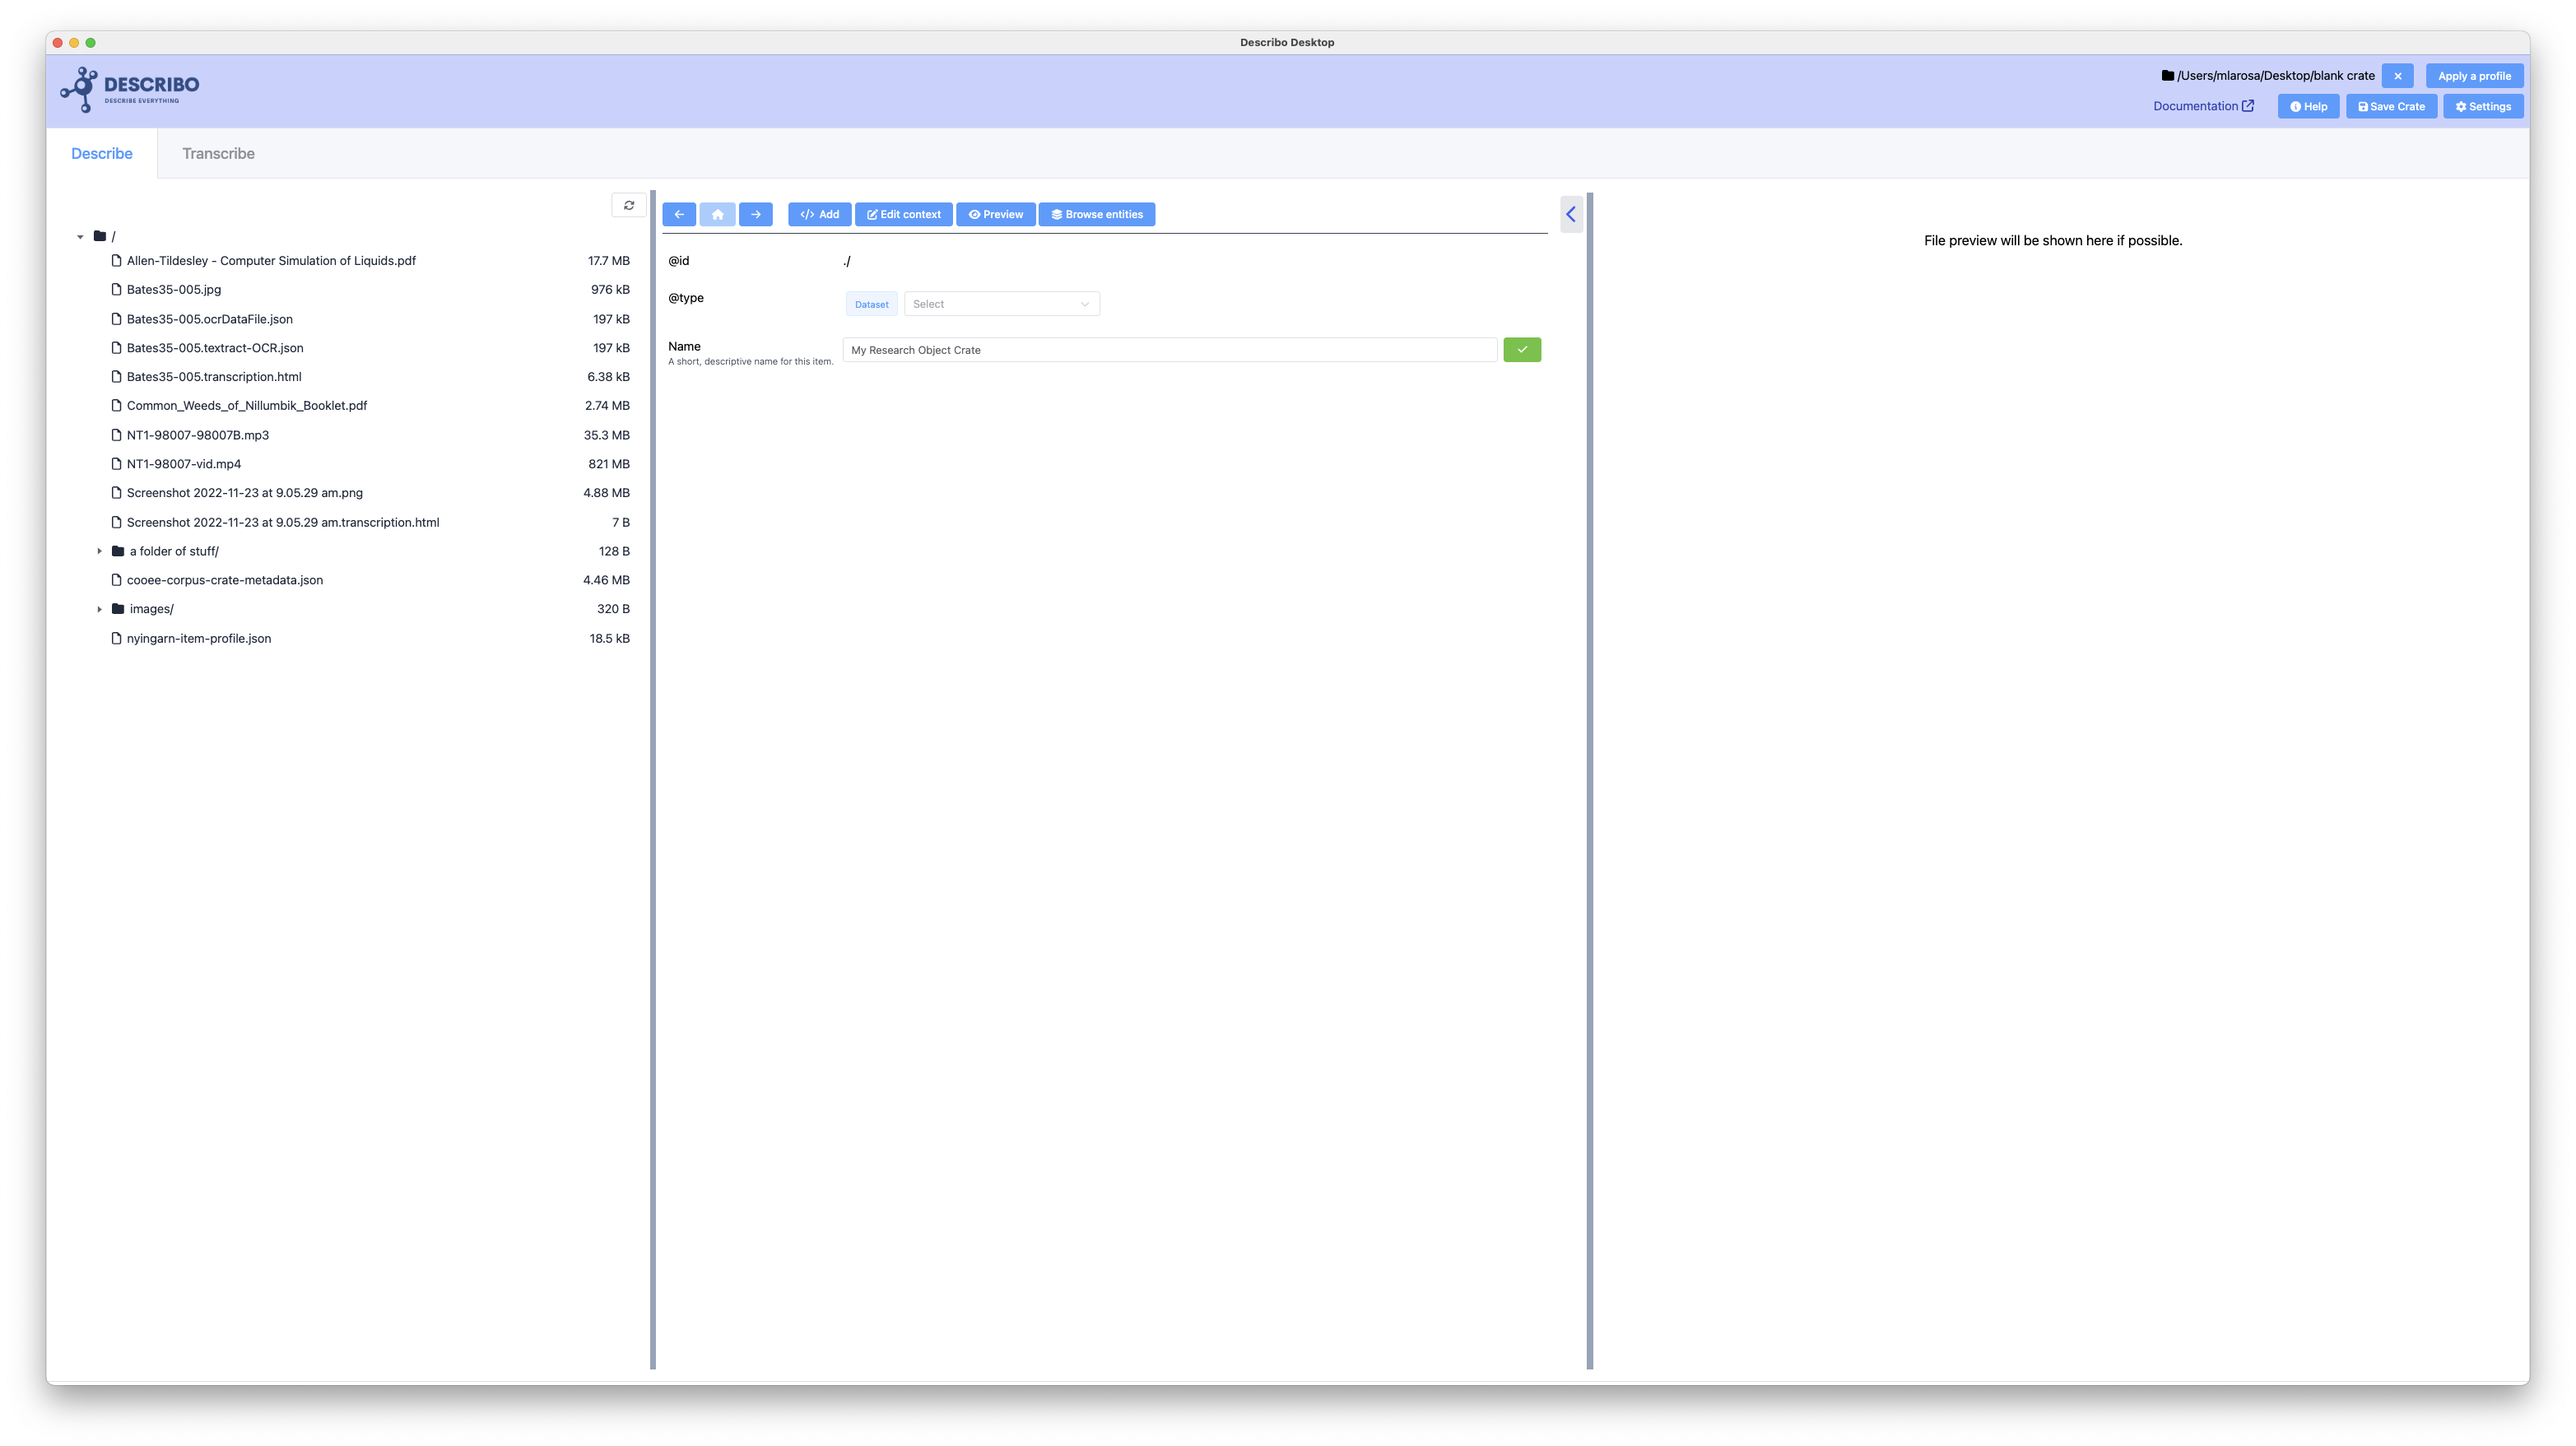
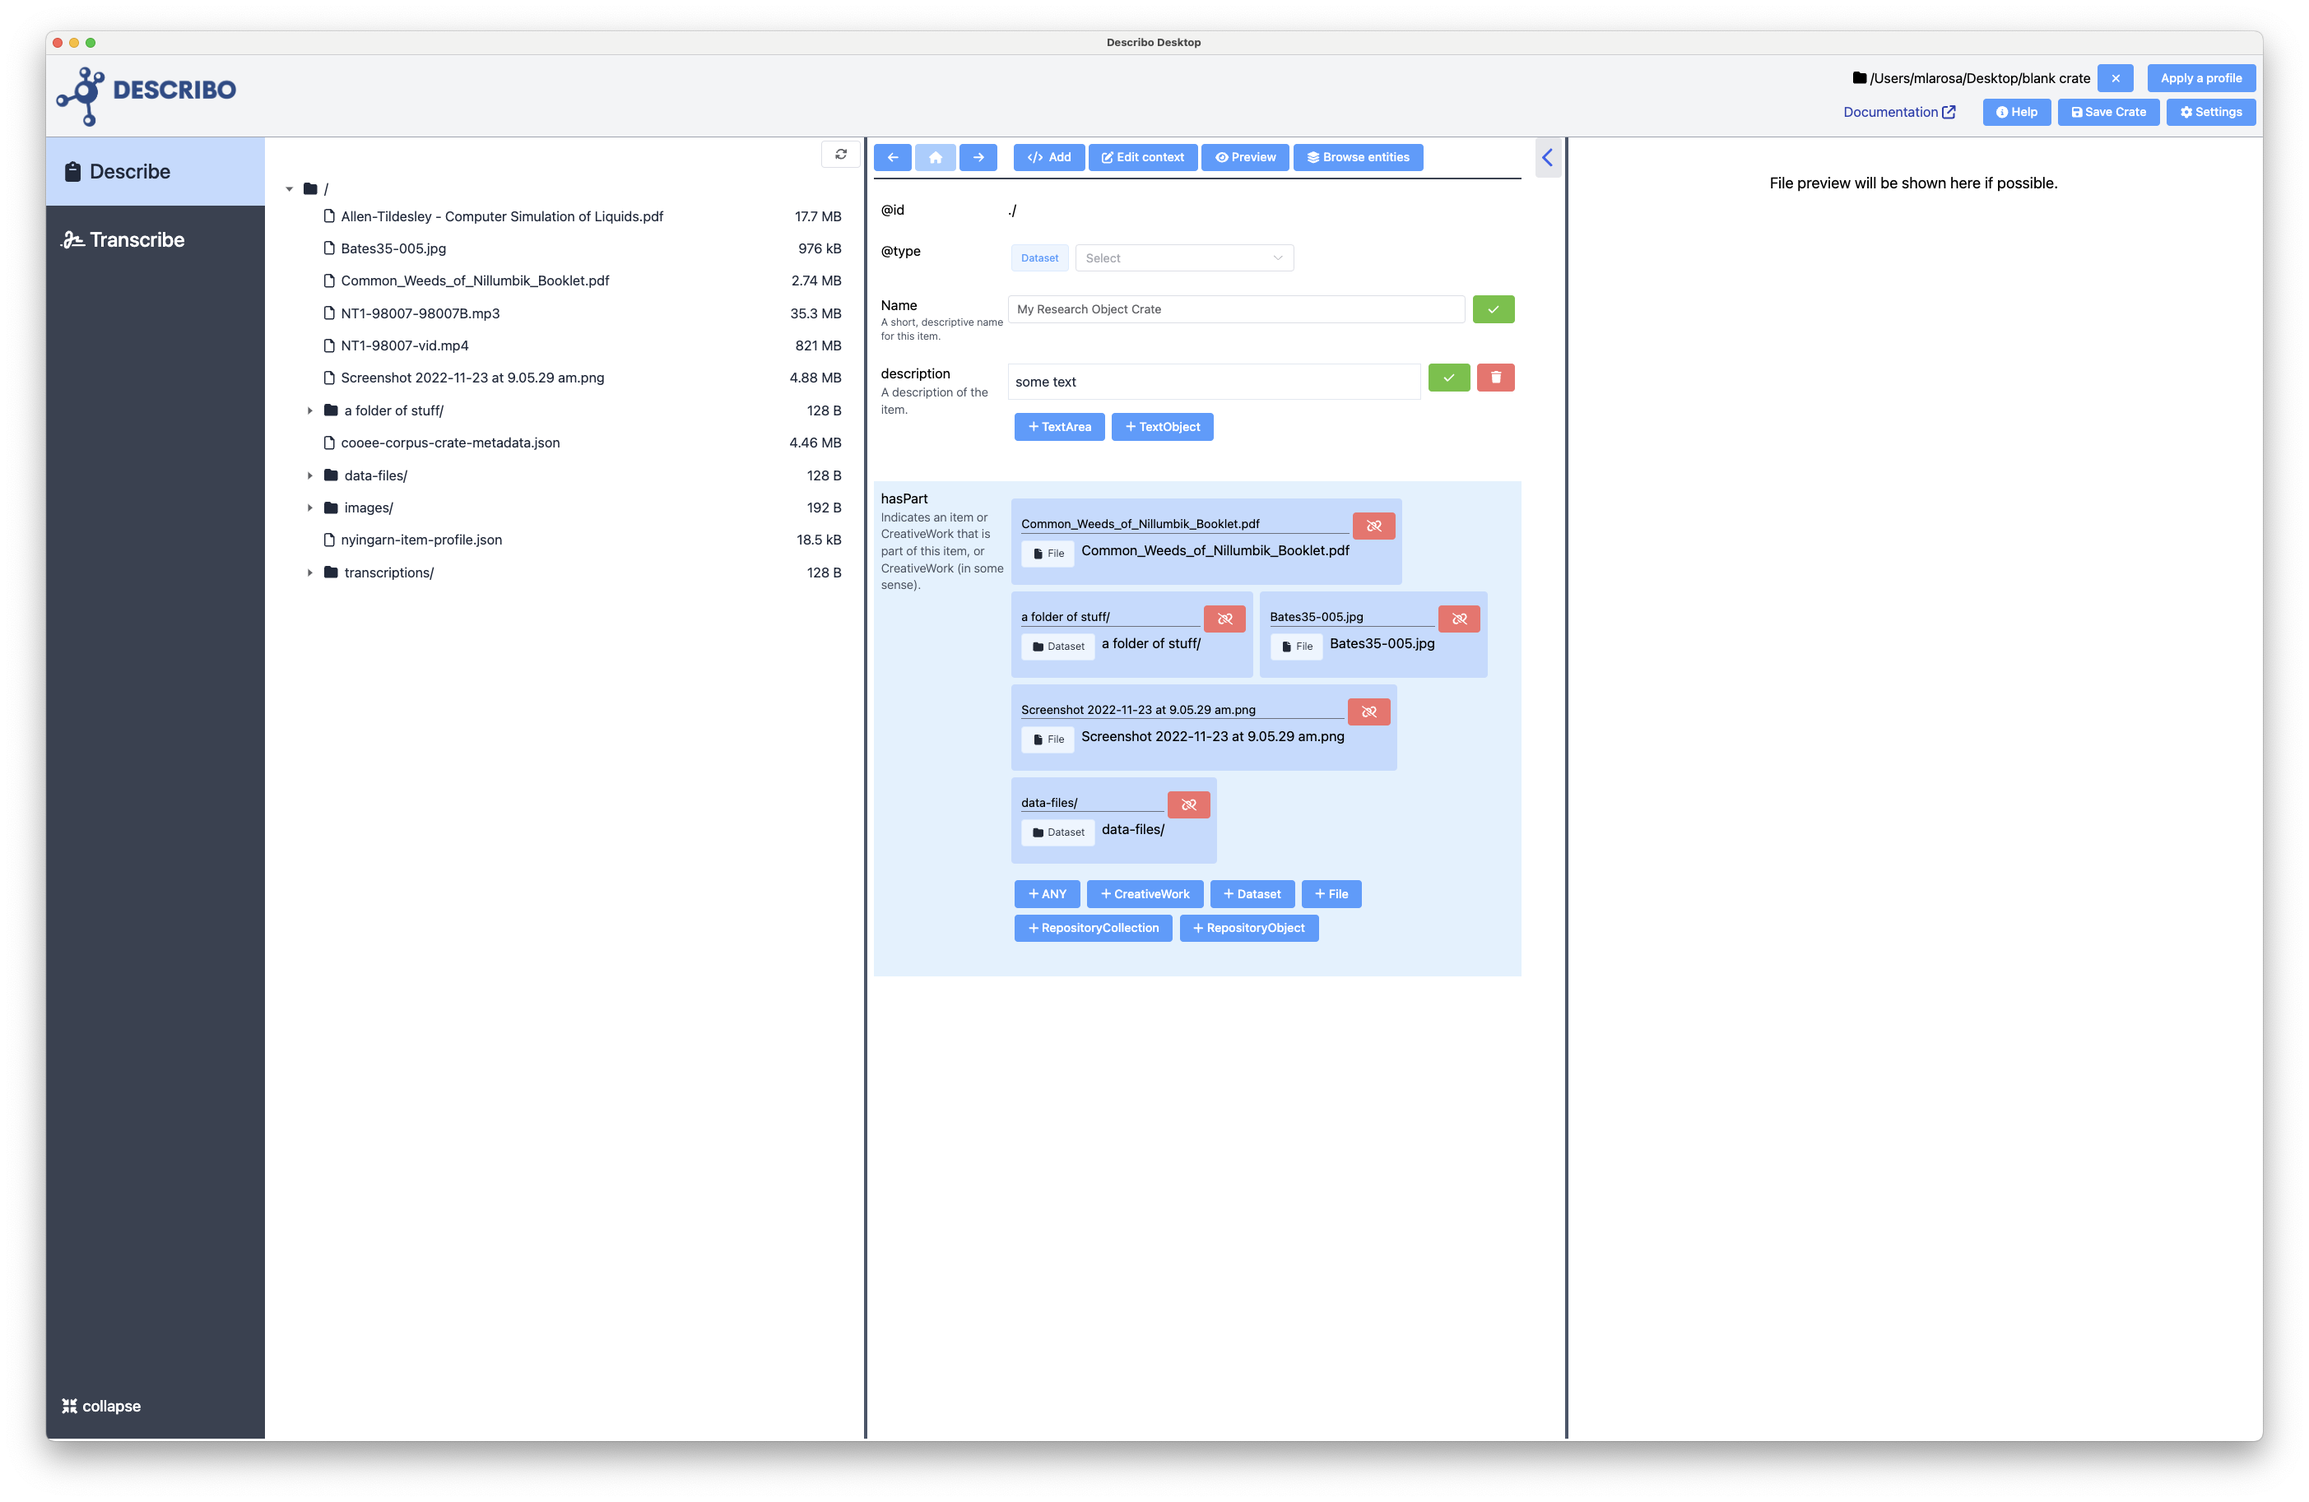
update screenshots and content

Changed region(s): [[0.0, 0.0307, 0.9922, 0.9835], [0.7441, 0.1537, 0.8371, 0.1844], [0.217, 0.3995, 0.248, 0.4303]]

diff --git a/src/docs/guide/tutorials/transcribing-content.md b/src/docs/guide/tutorials/transcribing-content.md
@@ -23,8 +23,9 @@ content in the RO-Crate as entities attached to the specific file.
 ## The transcription Tab
 
 When you navigate to the transcription tab you will see a 3 pane layout. In the first pane is the
-file browser showing only images in your folder. For now, Describo can only work with image formats;
-specifically files with the extension 'tif', 'tiff', 'jpg', 'jpeg', 'webp' or 'png'.
+file browser showing only images in your folder. As this section works with image files, only those
+files will be shown in the file browser. Supported file types are files with the extension 'jpg',
+'jpeg', 'webp' or 'png'.
 
 <ImageComponent src="/images/tutorial-transcribing-content/transcribe1.png"></ImageComponent>
 
@@ -58,8 +59,8 @@ fractions of a cent, having a go won't cost much.
 
 :::
 
-In the following two images, the control `Extract text using OCR` is pressed and after a few
-moments, the text is written into the transcription editor.
+In the following two images, the control `Extract text` is pressed and after a few moments, the text
+is written into the transcription editor.
 
 <ImageComponent src="/images/tutorial-transcribing-content/transcribe3.png"></ImageComponent>
 <ImageComponent src="/images/tutorial-transcribing-content/transcribe4.png"></ImageComponent>
@@ -70,15 +71,16 @@ confirmed by you.
 
 Highlighting an entity in the text and then pressing `Markup Entity` in the controls allows you to
 mark up that entity in the RO-Crate. In the following example we are saying that that entity in the
-text is a Person with name `Goolgoolia`.
+text is a Person with name `Wadhoorja`.
 
 <ImageComponent src="/images/tutorial-transcribing-content/transcribe5.png"></ImageComponent>
 
 After pressing `Create and Link Entity` the background has changed to indicate that the entity has
-been confirmed by you. Entities can be unmarked by highlighting them and selectin `Unmark Entity`.
+been confirmed by you. Entities can be unmarked by highlighting them and selecting `Unmark Entity`.
 
-You can also select text and associate it to an entity that has already been defined in the
-metadata.
+You can also select any other text and mark it up as an entity; either one already defined or a new
+one altogether. And when you have marked up the entities you are interested in, you can clear all
+the unconfirmed entities by pressing `(x) unconfirmed`.
 
 ::: tip
 
@@ -97,18 +99,19 @@ If you want to link an entity in the text to an entity that has already been def
 ## Content markup
 
 In this way, you can go through and markup all of the entities in the text. In the following example
-four entities have been marked up as People: Wadhoorja, Dhoodhoo yini, Ngallilea, Pompey.
+two entities have been marked up as People: Mallalea and Wadhoorja.
 
 And when we go back to the `Describe` tab we see that the entities are listed in the `mentions`
-property against the file. On this tab we can also see some extra files in the file manager on the
-left. The original image is `Bates35-005.jpg` and alongside it is `Bates35-005.textract-OCR.json`
-and `Bates35-005.transcription.html`. The file named textract OCR contains the textract data and the
-html file is the marked up transcription.
+property against the file. On this tab we can also see some extra files have been created and
+associated:
 
-<ImageComponent src="/images/tutorial-transcribing-content/transcribe10.png"></ImageComponent>
+-   `Has Ocr Data file` is a reference to the OCR raw data
+-   `Has Transcription` is a reference to the transcription marked up as a HTML file.
+
+<ImageComponent src="/images/tutorial-transcribing-content/transcribe6.png"></ImageComponent>
 
 If we look at the content of the html file we see that the entity data is marked up as HTML data
 attributes. In the following example, the first entity has the class `unconfirmed` whilst the second
 does not meaning that the second has been confirmed.
 
-<ImageComponent src="/images/tutorial-transcribing-content/transcribe11.png"></ImageComponent>
+<ImageComponent src="/images/tutorial-transcribing-content/transcribe7.png"></ImageComponent>

diff --git a/src/tour.md b/src/tour.md
@@ -9,8 +9,8 @@ aside: false
 const cards = [
     {
         text: `The dashboard. Select a folder of content to describe; load a previously used folder or manage data pack data.
-        Whether you are describing research data or creating a cultural collection, everything you do will be stored in this folder.
-        Nothing is locked up inside Describo.`,
+        Whether you are describing research data, creating a cultural collection or just discovering what your content
+        is about, everything you do will be stored in this folder. <br/><strong>Nothing is locked up inside Describo.</strong>`,
         image: "/images/tour/desktop1.png",
     },
     {
@@ -18,7 +18,7 @@ const cards = [
         image: "/images/tour/desktop2.png",
     },
     {
-        text: `When the RO Crate file is loaded the root dataset is shown in the middle pane along with a file browser on the left.
+        text: `When a folder is selected, the root dataset is shown in the middle pane along with a file browser on the left.
        In the navigation bar we can see which folder is loaded as well as controls to load a profile and access application settings.
         `,
         image: "/images/tour/desktop3.png",
@@ -35,8 +35,7 @@ const cards = [
         image: "/images/tour/desktop5.png",
     },
     {
-        text: `Entities can be created directly. 'Spatial Coverage' is expecting an entity of type Place and Describo provides controls
-        to create a new entity of that type. In this example, we are creating an entity of type Place with the name 'Some Location'.`,
+        text: `Entities can be created directly. 'Spatial Coverage' is expecting an entity of type Place and Describo provides controls to create a new entity of that type.`,
         image: "/images/tour/desktop6.png",
     },
     {
@@ -52,7 +51,7 @@ const cards = [
     },
     {
         text: `When using the transcription tools the data is written into the RO-Crate. And the markup is created as data attributes in the HTML.`,
-        image:  [ "/images/tour/desktop9.png",  "/images/tour/transcribe11.png" ]
+        image:  [ "/images/tour/desktop9.png",  "/images/tour/transcribe1.png" ]
     },
      {
         text: `Describo interfaces with a conversational AI assistant to help you interrogate and understand your content. In this image
@@ -75,9 +74,7 @@ const cards = [
         image: "/images/tour/desktop10.png",
     },
     {
-        text: `When a profile is loaded, the view will adapt based on the content of that profile. In this example, the profile defines
-        a tabbed layout for Dataset entities in addition to showing specific properties. This allows the profile author to define
-        exactly how the UI should look for their users and guide them on what is required.`,
+        text: `When a profile is loaded, the view will adapt based on the instructions in that profile. In this example, the profile defines a tabbed layout for Dataset entities in addition to showing specific properties. This allows the profile author to define exactly how the UI should look for their users and guide them on what is required.`,
         image: "/images/tour/desktop11.png",
     },
     {

diff --git a/src/docs/guide/tutorials/transcribing-content-assistant.md b/src/docs/guide/tutorials/transcribing-content-assistant.md
@@ -24,8 +24,8 @@ current, or complete information.
 # Using the assistant
 
 As you are transcribing your content, you are also marking up entities that are found in that
-content. That markup, as seen in the previous tutorial is stored as data attributes in the
-transcription and also the metadata.
+content. That markup, as seen in the previous tutorial is stored in the metadata and as data
+attributes in the transcription.
 
 The next step is developing and enriching your description of the content by using the assistant to
 interrogate the text; potentially from differing perspectives.
@@ -33,11 +33,9 @@ interrogate the text; potentially from differing perspectives.
 In the following images, the assistant is first used to summarise the text and describe the main
 topics. Then, acting as an anthropologist (ie prompting it to assume a particular role), the
 assistant is again asked what the main topics are. After that, the assistant is asked to assume the
-role of a social scientist to explain the narrative with respect to any cultural symbolism. Finally
-(the second image), the assistant is asked to explain whether the narrator is a part of the event.
+role of a social scientist to explain the narrative with respect to any cultural symbolism.
 
 <ImageComponent src="/images/tutorial-transcribing-content-assistant/assistant1.png"></ImageComponent>
-<ImageComponent src="/images/tutorial-transcribing-content-assistant/assistant2.png"></ImageComponent>
 
 In each case, the assistant provides a detailed answer with evidence from the text to support its
 commentary.
@@ -49,16 +47,11 @@ wish to define yourself) and associated to the file.
 When we navigate back to the describe tab we see the descriptions and defined terms that we added
 previously.
 
-<ImageComponent src="/images/tutorial-transcribing-content-assistant/assistant3.png"></ImageComponent>
+<ImageComponent src="/images/tutorial-transcribing-content-assistant/assistant2.png"></ImageComponent>
 
 Moving onto another image we can again engage the assistant to describe the text and when we go to
 add defined terms, not only can we create new ones but we can also look up existing terms that have
 been defined in the metadata. Notice the dropdown in the image shows the defined terms we created
 for the first page?
 
-<ImageComponent src="/images/tutorial-transcribing-content-assistant/assistant4.png"></ImageComponent>
-
-As before, when we navigate to the describe tab, we see the description entries and defined terms
-associated to the file.
-
-<ImageComponent src="/images/tutorial-transcribing-content-assistant/assistant5.png"></ImageComponent>
+<ImageComponent src="/images/tutorial-transcribing-content-assistant/assistant3.png"></ImageComponent>

diff --git a/src/index.md b/src/index.md
@@ -165,13 +165,15 @@ layout: home
         interrogate your data using natural language. It's your very own research
         assistant.
       </p>
-      <p>
+      <!-- <p>
         Watch the video to see the assistant in action.
-      </p>
+      </p> -->
     </template>
     <template #content>
-      <video controls class="p-2 border border-slate-400">
-         <source src="/images/tour/analysis.mp4" type="video/mp4"></video>
+      <!-- <video controls class="p-2 border border-slate-400">
+         <source src="/images/tour/analysis.mp4" type="video/mp4">
+      </video> -->
+           <ImageComponent src="/images/tutorial-transcribing-content-assistant/assistant1.png" />
     </template>
   </InfoPanelComponent>
 </div>
